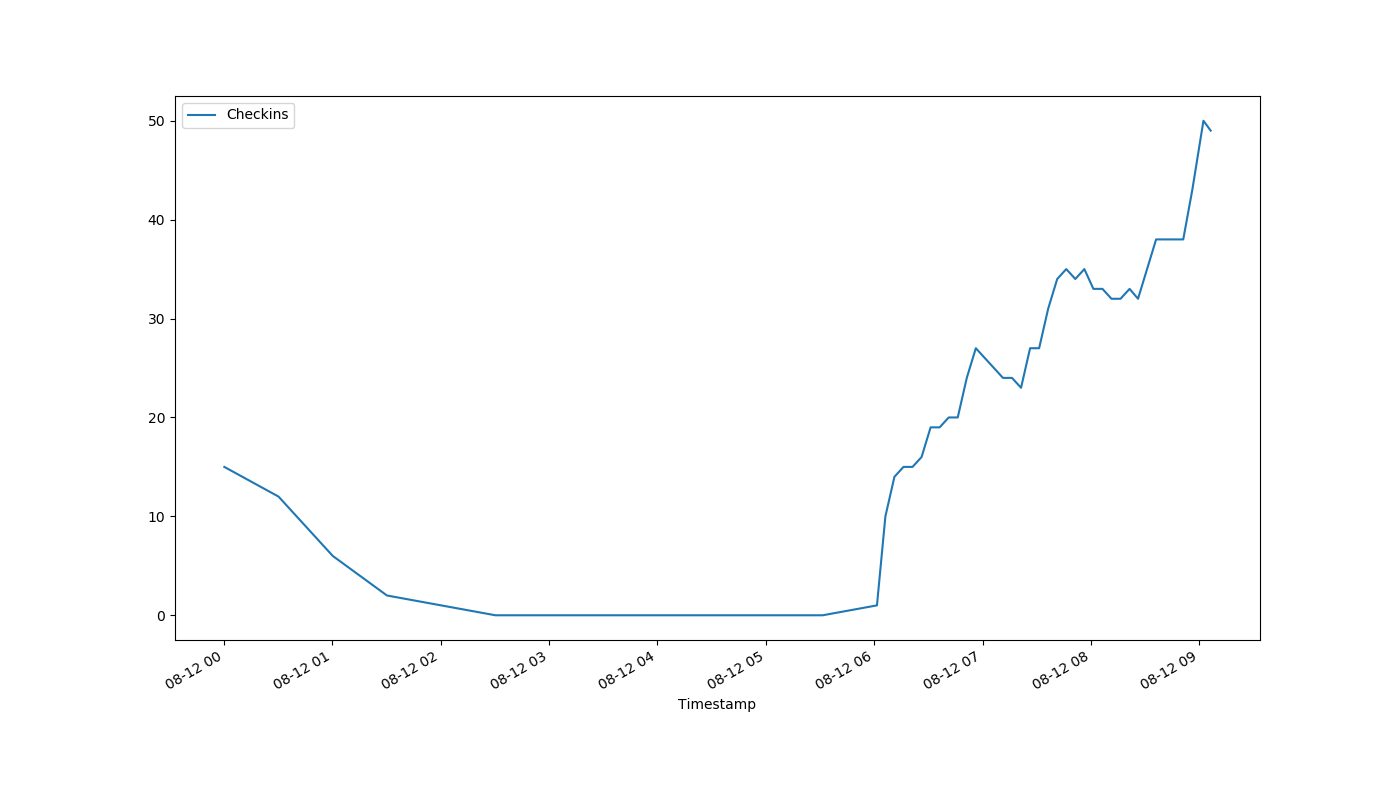
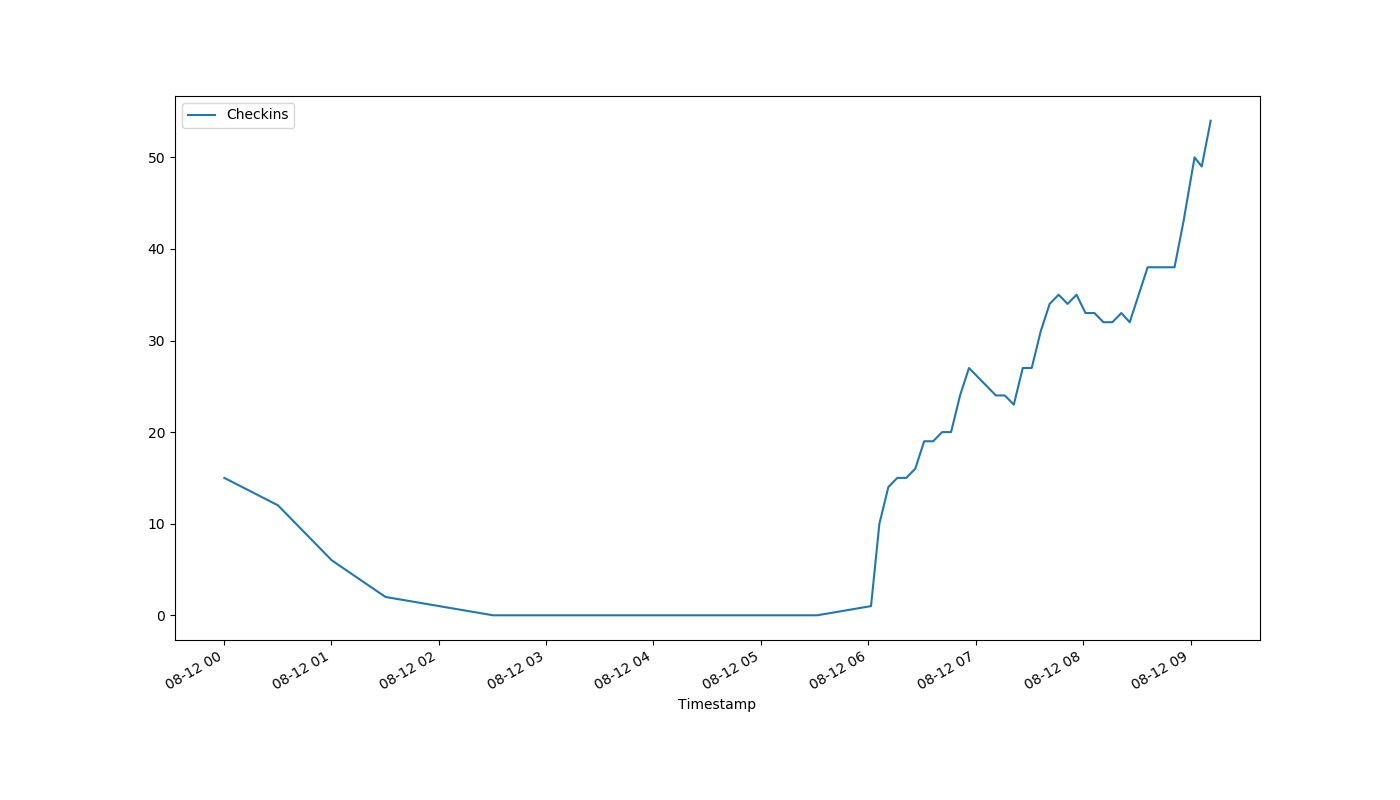
auto-Aug-12-09:12:22

diff --git a/index.html b/index.html
@@ -1,1 +1,1 @@
-<!DOCTYPE html><html><head><meta http-equiv="refresh" content="30"><link rel='stylesheet' href='holmcurrent.css'></head><body><p id='count'>49</p><div id='graph-wrap'><img id='graph' src='holmgraph-Aug-12.png'></div><p id='updated'>Last updated 09:06:17 / 09:06:13</p></body></html>
+<!DOCTYPE html><html><head><meta http-equiv="refresh" content="30"><link rel='stylesheet' href='holmcurrent.css'></head><body><p id='count'>54</p><div id='graph-wrap'><img id='graph' src='holmgraph-Aug-12.png'></div><p id='updated'>Last updated 09:11:17 / 09:11:13</p></body></html>
